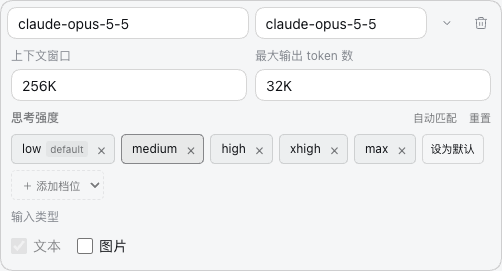
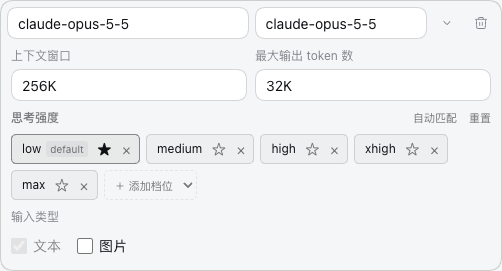
fix: 将默认设置图标嵌入思考档位标签
在每个档位标签内提供可点击的星形按钮，单击即可设为默认；当前默认档位显示实心星和 default 标签。

移除独立按钮和候选档位选择状态，更新使用文档与截图，并将版本升级至 0.3.3。构建、10 项逻辑测试及隔离 DSH 页面流程验证通过。

diff --git a/src/client.jsx b/src/client.jsx
@@ -9,12 +9,9 @@ const same = (a, b) => JSON.stringify(a) === JSON.stringify(b);
 
 function EffortRow({row}) {
   const [error, setError] = useState('');
-  const [selection, setSelection] = useState(null);
   const entry = matchModel(row.id, row.provider);
   const draft = row.fields;
   const active = Object.keys(draft.reasoningEfforts || {});
-  const selected = active.includes(selection) ? selection : active.includes(draft.defaultReasoningEffort)
-    ? draft.defaultReasoningEffort : LEVELS.find(k => active.includes(k));
   const allowed = entry?.levels ?? LEVELS;
   const change = update => {
     try {
@@ -48,24 +45,26 @@ function EffortRow({row}) {
   const match = () => {
     const current = rowBridge(row.element);
     const matched = current && matchModel(current.model.id, current.provider);
-    if (matched) {setSelection(null); change(autoFields(matched, current.provider.api));}
+    if (matched) change(autoFields(matched, current.provider.api));
   };
   return <div className="dme" aria-label={row.id + ' 思考强度'}>
     <div className="dme-heading"><span>思考强度</span><div className="dme-actions">
       <button type="button" disabled={row.disabled || !entry} onClick={match}>自动匹配</button>
-      <button type="button" disabled={row.disabled || same(draft, row.baseline)} onClick={() => {setSelection(null); change(row.baseline);}}>重置</button>
+      <button type="button" disabled={row.disabled || same(draft, row.baseline)} onClick={() => change(row.baseline)}>重置</button>
     </div></div>
     <div className="dme-chips" aria-label="已配置的思考档位">
-      {LEVELS.filter(k => active.includes(k)).map(k => <span className="dme-chip" key={k} data-selected={selected === k || undefined}>
-        <button className="dme-level" type="button" disabled={row.disabled} aria-label={'选择 ' + k + ' 档位'} aria-pressed={selected === k}
-          title={draft.defaultReasoningEffort === k ? '默认档位' : '选择档位'} onClick={() => setSelection(k)}>
+      {LEVELS.filter(k => active.includes(k)).map(k => <span className="dme-chip" key={k} data-default={draft.defaultReasoningEffort === k || undefined}>
+        <span className="dme-level">
           {k}{draft.defaultReasoningEffort === k && <span className="dme-default">default</span>}
+        </span>
+        <button className="dme-set-default" type="button" disabled={row.disabled} aria-label={'设 ' + k + ' 为默认档位'} aria-pressed={draft.defaultReasoningEffort === k}
+          title={draft.defaultReasoningEffort === k ? '默认档位' : '设为默认'}
+          onClick={() => change((_current, latest) => ({...latest, defaultReasoningEffort: k}))}>
+          <span aria-hidden="true">{draft.defaultReasoningEffort === k ? '★' : '☆'}</span>
         </button>
         <button type="button" disabled={row.disabled} aria-label={'删除 ' + k + ' 档位'} onClick={() => remove(k)}>×</button>
       </span>)}
-      <button className="dme-set-default" type="button" disabled={row.disabled || !selected || selected === draft.defaultReasoningEffort}
-        onClick={() => change((_current, latest) => ({...latest, defaultReasoningEffort: selected}))}>设为默认</button>
-      <select className="dme-add" aria-label="增加思考档位" disabled={row.disabled} value="" onChange={e => {add(e.target.value); setSelection(e.target.value);}}>
+      <select className="dme-add" aria-label="增加思考档位" disabled={row.disabled} value="" onChange={e => add(e.target.value)}>
         <option value="" disabled>＋ 添加档位</option>
         {LEVELS.filter(k => !active.includes(k)).map(k => <option key={k} value={k} disabled={!allowed.includes(k) || k === 'off' && !active.length}>{k}</option>)}
       </select>

diff --git a/src/styles.css b/src/styles.css
@@ -6,6 +6,6 @@
 .dme-chips{display:flex;align-items:center;flex-wrap:wrap;gap:6px;min-height:30px}.dme-chip{display:inline-flex;align-items:center;gap:8px;border:1px solid var(--dme-border);background:color-mix(in srgb,currentColor 3%,transparent);border-radius:6px;padding:5px 7px 5px 10px;font-size:12px;line-height:18px}
 .dme-chip button{border:0;background:transparent;color:var(--dme-muted);padding:0 1px;font:inherit;font-size:15px;line-height:18px;cursor:pointer}.dme-chip button:not(:disabled):hover{color:inherit}
 .dme-chip .dme-level{display:inline-flex;align-items:center;gap:5px;font-size:12px;color:inherit;padding:0}.dme-default{border-radius:3px;background:color-mix(in srgb,currentColor 8%,transparent);color:var(--dme-muted);padding:0 4px;font-size:10px;line-height:16px}
-.dme-chip[data-selected]{border-color:color-mix(in srgb,currentColor 45%,transparent);background:color-mix(in srgb,currentColor 6%,transparent)}.dme-set-default{border:1px solid var(--dme-border);border-radius:6px;background:transparent;color:inherit;font:inherit;font-size:11px;height:30px;padding:4px 8px;cursor:pointer}
+.dme-chip[data-default]{border-color:color-mix(in srgb,currentColor 45%,transparent);background:color-mix(in srgb,currentColor 6%,transparent)}.dme-chip .dme-set-default[aria-pressed=true]{color:inherit}.dme-chip button:focus-visible{outline:2px solid currentColor;outline-offset:2px;border-radius:2px}
 .dme-add{border:1px dashed var(--dme-border);border-radius:6px;background:transparent;color:var(--dme-muted);font:inherit;font-size:11px;max-width:110px;height:30px;padding:4px 6px;cursor:pointer}.dme-error{font-size:11px;color:#bd3434}
 @media(prefers-color-scheme:dark){.dme-add option{background:#202124;color:#eee}}

diff --git a/docs/VERIFICATION.md b/docs/VERIFICATION.md
@@ -1,13 +1,13 @@
 # 验证记录
 
-日期：2026-10-12。插件：0.3.2。宿主：DeepSeek Harness 0.2.0-rc.2。功能验证运行在隔离的 web profile，使用系统 Chrome。
+日期：2026-10-12。插件：0.3.3。宿主：DeepSeek Harness 0.2.0-rc.2。功能验证运行在隔离的 web profile，使用系统 Chrome。
 
 ## 已验证
 
 - 构建成功，客户端约 17 KB，服务端约 4 KB，使用 DSH 共享的 React。
 - 10 项逻辑测试通过，包括目录、协议和托管端点范围、原字段保留、重置、默认值校验、模型间独立默认值、显式选择优先、旧快照一致性、实例方法恢复和非法默认值拒绝。
 - 控件位于每个展开模型的容量设置下方、输入类型上方。
-- 界面包含思考强度、档位标签、设为默认、添加档位、自动匹配、重置，使用原生保存和取消。
+- 界面包含思考强度、档位标签、标签内的默认星形按钮、添加档位、自动匹配、重置，使用原生保存和取消。
 - 档位标签和添加列表直接显示 `off`、`minimal`、`low`、`medium`、`high`、`xhigh`、`max`，不翻译成中文。
 - Opus 5.5 匹配 low / medium / high / xhigh / max；Sonnet 4.6 不提供 xhigh。
 - 标签增删、重置以及折叠后重新展开均正常。
@@ -16,8 +16,8 @@
 - 容量修改、模型改名、新模型配置和删除前面的模型可以一起保存；重新打开后，各模型档位仍正确对应。
 - 容量无效时，原生校验禁止保存，档位草稿不写入配置。
 - 未知模型的自动匹配禁用，手动添加可用。
-- 选中档位不修改默认值；点击“设为默认”才提交默认值到编辑草稿。未配置档位或选中当前默认档位时，按钮禁用。
-- 默认档位显示可见的 `default` 标签；切换档位后仅新默认值保留该标签，折叠、保存读回和重置后标识正确。
+- 每个档位标签内都有可点击的星形按钮；单击 **☆** 直接修改编辑草稿的默认值，无需先选择档位或使用独立按钮。单击当前默认档位的 **★** 不会清除默认值。
+- 默认档位显示 **★** 和可见的 `default` 标签，其余档位显示 **☆**；切换默认档位后仅新默认值保留标识，折叠、保存读回和重置后标识正确。
 - 仅修改默认值也能通过原生保存持久化，模型目录读回新的默认值。
 - Opus 默认 medium、手工模型默认 off、新添加的 Sonnet 默认 xhigh，改名和删除其他模型后仍各自对应。
 - 设置明确默认值后，聊天菜单显示 Low、Medium、High、Xhigh、Max，没有 Default，并正确默认选中 Medium。

diff --git a/README.md b/README.md
@@ -9,7 +9,7 @@
 - 在模型的上下文窗口和最大输出设置下方编辑思考强度。
 - 添加、删除档位，保留 `off`、`low`、`medium`、`high` 等原始英文值。
 - 根据模型 ID 和 API 协议自动匹配支持的档位。
-- 通过 **设为默认** 按钮设置模型默认档位，并以 `default` 标签标识。
+- 点击档位标签内的 **☆** 设置默认档位，当前默认档位显示 **★** 和 `default` 标签。
 - 重置编辑内容，使用原生服务商编辑器统一保存或取消。
 
 ## 安装
@@ -26,7 +26,7 @@ npm run build
 npm pack
 ```
 
-在 DSH 的 **插件 → 添加插件** 中输入生成的 `deepseekharness-plugin-dsh-model-efforts-0.3.2.tgz` 的绝对路径，安装后启用插件。
+在 DSH 的 **插件 → 添加插件** 中输入生成的 `deepseekharness-plugin-dsh-model-efforts-0.3.3.tgz` 的绝对路径，安装后启用插件。
 
 升级时安装新版同名安装包，保存正在编辑的内容后重新启动 DSH，加载新版客户端。
 
@@ -34,7 +34,7 @@ npm pack
 
 1. 打开 **设置 → 模型**，编辑服务商并展开模型选项。
 2. 点击 **自动匹配**，填入该模型支持的档位。未收录的模型可以手动添加档位。
-3. 选中档位后点击 **设为默认**。当前默认档位显示 `default` 标签。
+3. 点击档位标签内的 **☆**，将该档位设为默认。当前默认档位显示 **★** 和 `default` 标签。
 4. 使用 **添加档位** 或标签右侧的 **×** 调整可用档位。**重置** 恢复本次编辑前的设置。
 5. 点击服务商编辑器的 **保存** 应用修改，或点击 **取消** 放弃修改。
 
